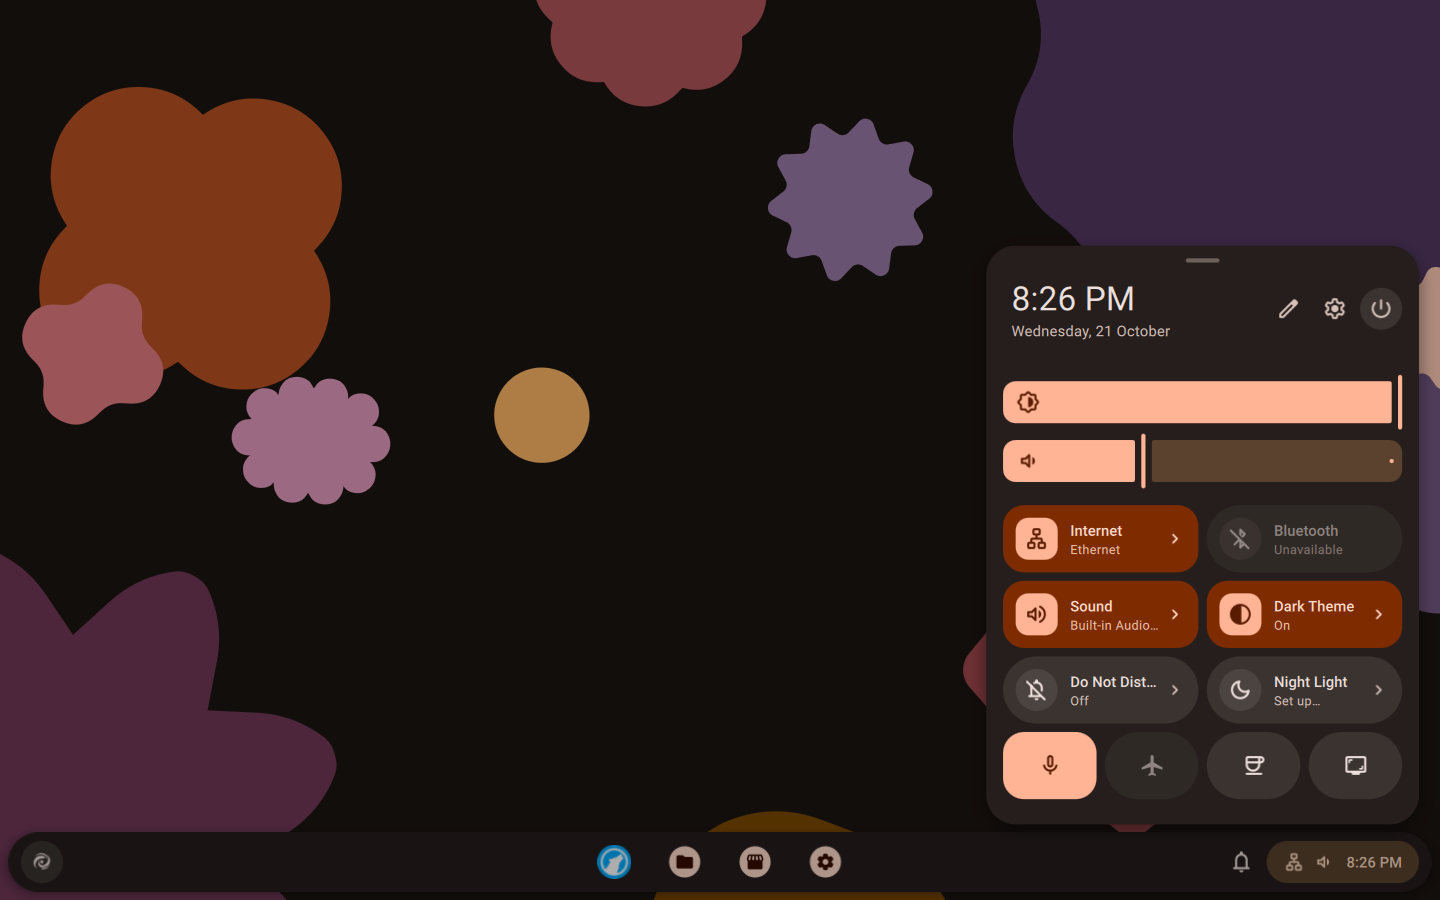
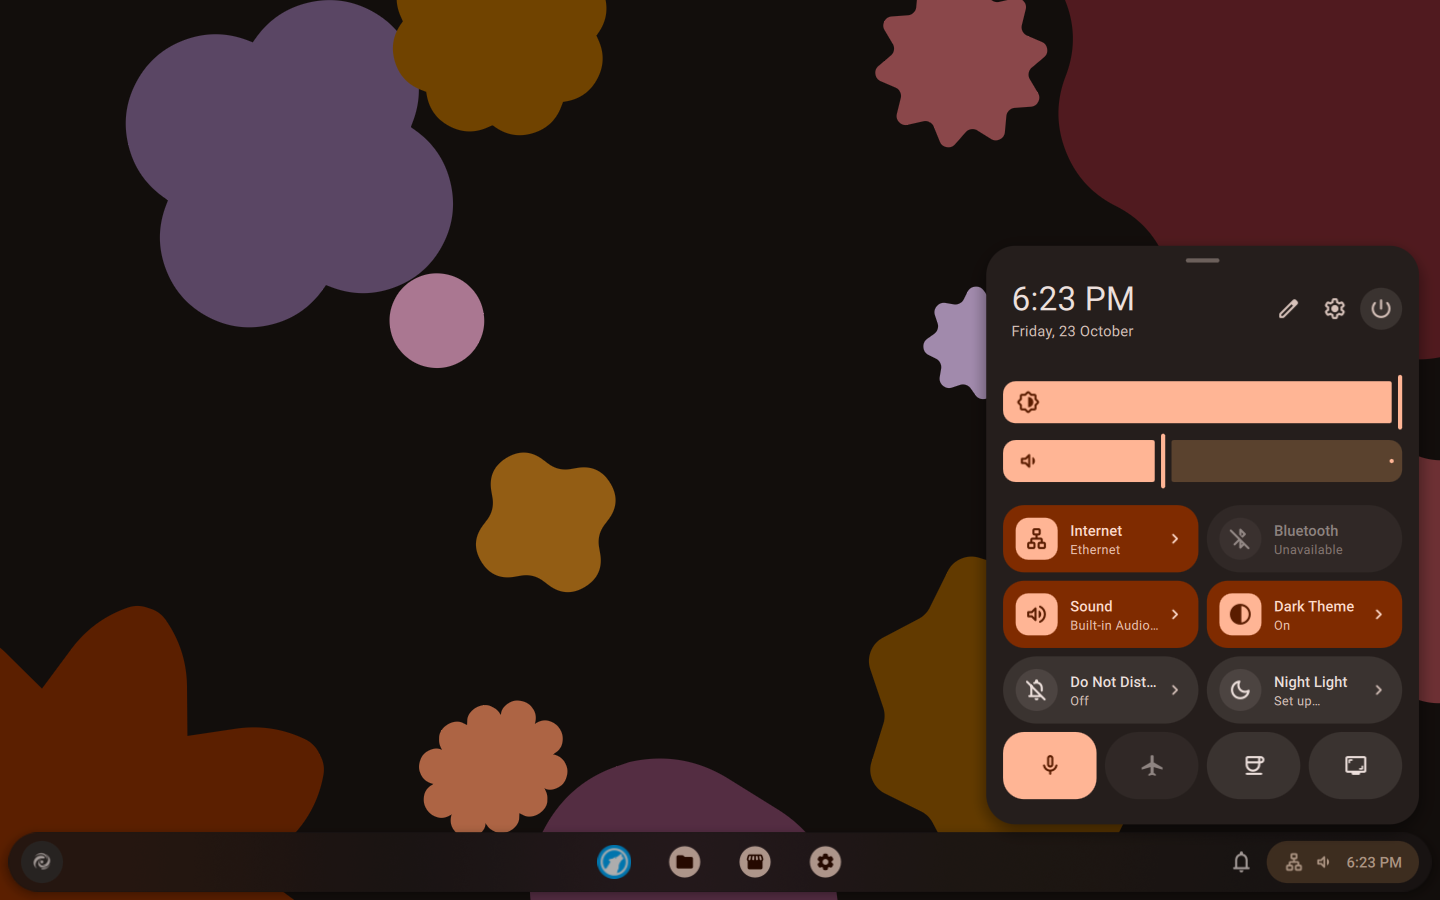
fix: transparent panel actually switches, no dark band, round task chips
panel.opacity from a script calls QWindow::setOpacity on 6.3, so the switch
from PR #4 never did anything. Settings now asks the launcher, the launcher
sets opacityMode on its panel view. Theme turns on adaptive transparency or
plasma ignores the mode.

Also cut the panel out of its own shadow (it showed through as a band on
top) and made task buttons chips around the icon instead of full height
boxes. New README screenshots.

diff --git a/packages/native/kernora-apps/apps/settings/qml/pages/AppearancePage.qml b/packages/native/kernora-apps/apps/settings/qml/pages/AppearancePage.qml
@@ -89,35 +89,53 @@ SettingsPage {
     property bool panelBusy: false
     property bool panelAvailable: false
     property bool panelTranslucent: false
+    property string panelWanted: ""
 
     function updatePanelOpacity(mode: string): void {
         if (panelBusy) {
             return;
         }
         panelBusy = true;
-        const script = "var items = panels(); "
-            + (mode ? "items.forEach(function (panel) { panel.opacity = " + JSON.stringify(mode) + "; }); " : "")
-            + "print(JSON.stringify(items.map(function (panel) { return panel.opacity; })));";
+        const request = ({ opaque: 1, translucent: 2 })[mode];
+        const write = request === undefined ? ""
+            : "launchers.forEach(function (widget) { widget.currentConfigGroup = ['General']; "
+              + "widget.writeConfig('panelOpacityRequest', '" + request + ":" + Date.now() + "'); }); ";
+        const script = "print(JSON.stringify(panels().map(function (panel) { "
+            + "var launchers = panel.widgets('org.kernora.launcher'); " + write
+            + "return launchers.length > 0 ? panel.opacity : ''; })));";
         DBus.call("session", "org.kde.plasmashell", "/PlasmaShell", "org.kde.PlasmaShell", "evaluateScript",
                   [{ type: "s", value: script }], (ok, result) => {
             page.panelBusy = false;
             let modes = [];
             if (ok) {
                 try {
-                    modes = JSON.parse(String(result).trim());
-                    ok = Array.isArray(modes) && modes.every(value => ["opaque", "translucent", "adaptive"].includes(value));
+                    modes = JSON.parse(String(result).trim()).filter(value => value !== "");
+                    ok = modes.every(value => ["opaque", "translucent", "adaptive"].includes(value));
                 } catch (error) {
                     ok = false;
                 }
             }
             page.panelAvailable = ok && modes.length > 0;
-            if (page.panelAvailable) {
-                page.panelTranslucent = modes.every(value => value === "translucent");
+            if (request !== undefined) {
+                page.panelWanted = mode;
+                page.panelTranslucent = mode === "translucent";
+                panelCheck.restart();
+                return;
             }
-            if (mode && (!page.panelAvailable || modes.some(value => value !== mode))) {
+            if (page.panelAvailable) {
+                page.panelTranslucent = modes.every(value => value !== "opaque");
+            }
+            if (page.panelWanted && (!page.panelAvailable || modes.some(value => value !== page.panelWanted))) {
                 page.notify(i18n("The panel transparency could not be changed."));
             }
+            page.panelWanted = "";
         });
+    }
+
+    Timer {
+        id: panelCheck
+        interval: 400
+        onTriggered: page.updatePanelOpacity("")
     }
 
     onVisibleChanged: {

diff --git a/packages/native/kernora-desktop/data/shell/launcher/contents/ui/main.qml b/packages/native/kernora-desktop/data/shell/launcher/contents/ui/main.qml
@@ -5,6 +5,7 @@
 
 import QtQuick
 import QtQuick.Layouts
+import QtQuick.Window
 import org.kde.coreaddons as KCoreAddons
 import org.kde.kcmutils as KCMUtils
 import org.kde.plasma.core as PlasmaCore
@@ -49,6 +50,15 @@ PlasmoidItem {
                 Plasmoid.configuration.favoritesPortedToKAstats = true;
             }
             refresh();
+        }
+    }
+
+    readonly property string panelOpacityRequest: Plasmoid.configuration.panelOpacityRequest
+    onPanelOpacityRequestChanged: {
+        const mode = parseInt(panelOpacityRequest, 10);
+        const view = root.Window.window;
+        if (mode >= 0 && mode <= 2 && view && view.opacityMode !== undefined) {
+            view.opacityMode = mode;
         }
     }
 

diff --git a/tests/test-panel-transparency.py b/tests/test-panel-transparency.py
@@ -24,6 +24,10 @@ def check_theme(theme):
                 assert element.get("fill-opacity") == opacity, (theme, prefix, part)
                 assert element.get("class") == "ColorScheme-Background"
         assert elements["mask-center"].get("fill") == "#000000"
+        for corner in ("topleft", "topright", "bottomleft", "bottomright"):
+            shadow = elements["shadow-" + corner]
+            assert shadow.get("fill-rule") == "evenodd" and shadow.get("d").count("Z") == 2, (theme, corner)
+        assert elements["shadow-top"].tag.endswith("g"), theme
     for image in (translucent, solid):
         for element in image.iter():
             element.attrib.pop("fill-opacity", None)
@@ -32,7 +36,12 @@ def check_theme(theme):
     settings.read(theme / "plasmarc")
     assert settings.getboolean("BlurBehindEffect", "enabled")
     assert not settings.getboolean("ContrastEffect", "enabled")
-    assert not settings.getboolean("AdaptiveTransparency", "enabled")
+    assert settings.getboolean("AdaptiveTransparency", "enabled")
+    tasks = {element.get("id"): element for element in ET.parse(theme / "widgets/tasks.svg").getroot().iter()}
+    for state in ("normal-", "minimized-", "hover-", "launcher-hover-", "focus-", "focus-hover-", "attention-", "progress-"):
+        corner = tasks[state + "topleft"]
+        box, shape = list(corner)
+        assert box.get("fill") == "none" and shape.tag.endswith("path"), (theme, state)
     for relative in ("dialogs/background.svg", "widgets/tooltip.svg"):
         image = ET.parse(theme / relative).getroot()
         assert next(element for element in image.iter() if element.get("id") == "center").get("fill-opacity") == "1"

diff --git a/docs/DESKTOP.md b/docs/DESKTOP.md
@@ -181,7 +181,7 @@ has no network) and `fetch-symbols --check` verifies them during the build.
 | `widgets/panel-background` | floating pill, radius = half the 56px thickness |
 | `dialogs/background` | popups: extra-large 28dp corners, level-3 shadow |
 | `widgets/tooltip` | rich tooltip on the highest container |
-| `widgets/tasks` | task buttons as tonal containers, primary tint when active |
+| `widgets/tasks` | task buttons as chips inset around the icon, primary tint when active |
 | `widgets/slider`, `lineedit`, `button` | 16dp track, pill fields and buttons |
 | `widgets/listitem`, `viewitem`, `scrollbar`, `tabbar`, `line` | state layers, thin thumbs |
 
@@ -224,19 +224,25 @@ New accounts do not autostart the Xwayland video bridge (see
 `data/skel-autostart/`): its status icon is permanently passive and would bring
 the arrow back. Kernora's applications are native Wayland clients.
 
-Settings → Wallpaper & style → Panel offers a **Transparent panel** switch
-for all panels. It changes Plasma's native `panel.opacity` between
-`translucent` and `opaque`, so Plasma saves the choice across logins and its
-panel editor reads the same setting. Settings reads the live panels when
-opened. Changing the colour, light/dark theme or Material generation keeps
-the opacity choice.
+Settings → Wallpaper & style → Panel has a **Transparent panel** switch.
+Plasma's own `panel.opacity` script setter is broken on 6.3 (on a live panel it
+calls `QWindow::setOpacity` with the enum value), so Settings goes through the
+launcher instead: it writes `panelOpacityRequest` into the launcher's config
+and the launcher sets `opacityMode` on the panel view it sits in. Plasma then
+saves it in `plasmashellrc` like any other panel setting. The switch needs the
+launcher on the panel, without it the switch is greyed out.
 
-The translucent background uses the same `ColorScheme-Background` role,
-corners, padding and shadows as the solid panel, with 82% surface opacity.
-KWin supplies the blur behind its full-opacity mask; text, icons and task
-buttons retain their own opacity. The `solid/` SVG stays fully opaque for
-the opaque mode and when compositing is unavailable. Dialogs and tooltips
-keep their solid surfaces. New panels keep their translucent default.
+The theme has `[AdaptiveTransparency] enabled=true`, otherwise Plasma ignores
+the panel's opacity mode and always draws the translucent SVG. Translucent is
+the same `ColorScheme-Background` at 82% with KWin blur behind it, `solid/` is
+fully opaque and is used for the opaque mode (and for adaptive panels while a
+maximized window touches them). Dialogs and tooltips stay solid.
+
+Two things only show up on the see-through panel. KWin draws shadow tiles under
+the window as well, so the panel shadow has the panel's shape cut out of it
+(minus a 1px seam), else a dark band shows along the top edge and in the round
+ends. And the task buttons are chips inset 6px around the icon: the old
+full-height boxes looked like a glitch once the wallpaper showed around them.
 
 ### Launcher (`org.kernora.launcher`)
 

diff --git a/README.md b/README.md
@@ -50,10 +50,11 @@ Taken in a VM with the default colour and dark theme.
 ## What's in it
 
 - Debian 13.7 from a fixed snapshot (2026-10-15), Linux 6.12, KDE Plasma 6.3
-- a Kernora shell on top of Plasma: panel, app launcher, quick settings,
-  notifications, lock screen, Alt+Tab and power menu. Every colour comes
-  from one seed colour, `#ff6a1e`, and you can switch the whole look between
-  Material Design 1, 2 and 3 in Settings
+- a Kernora shell on top of Plasma: see-through floating panel (you can make
+  it solid in Settings), app launcher, quick settings, notifications, lock
+  screen, Alt+Tab and power menu. Every colour comes from one seed colour,
+  `#ff6a1e`, and you can switch the whole look between Material Design 1, 2
+  and 3 in Settings
 - Kernora apps instead of the KDE ones: Settings, Store, Files, Text Editor,
   Photos, Media Player, Calculator, Screenshot, Terminal (Alacritty) and
   Welcome, plus a file chooser every app uses
